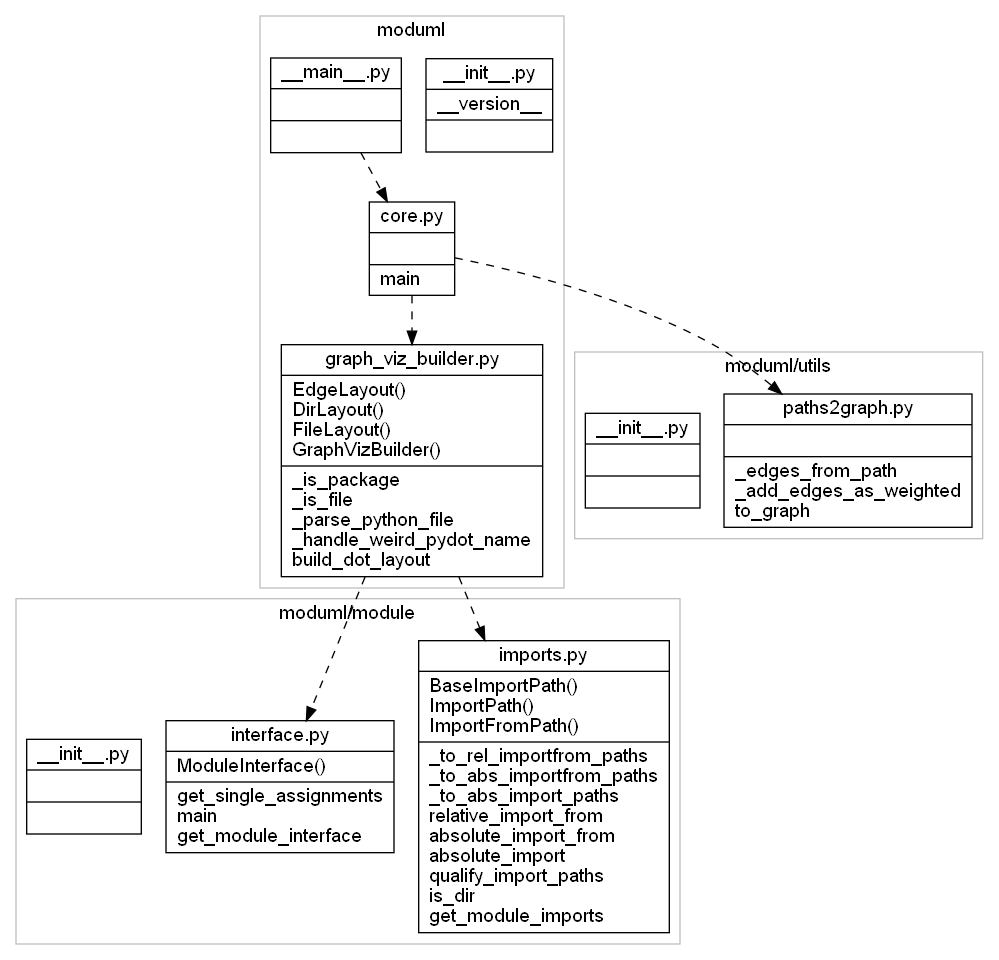
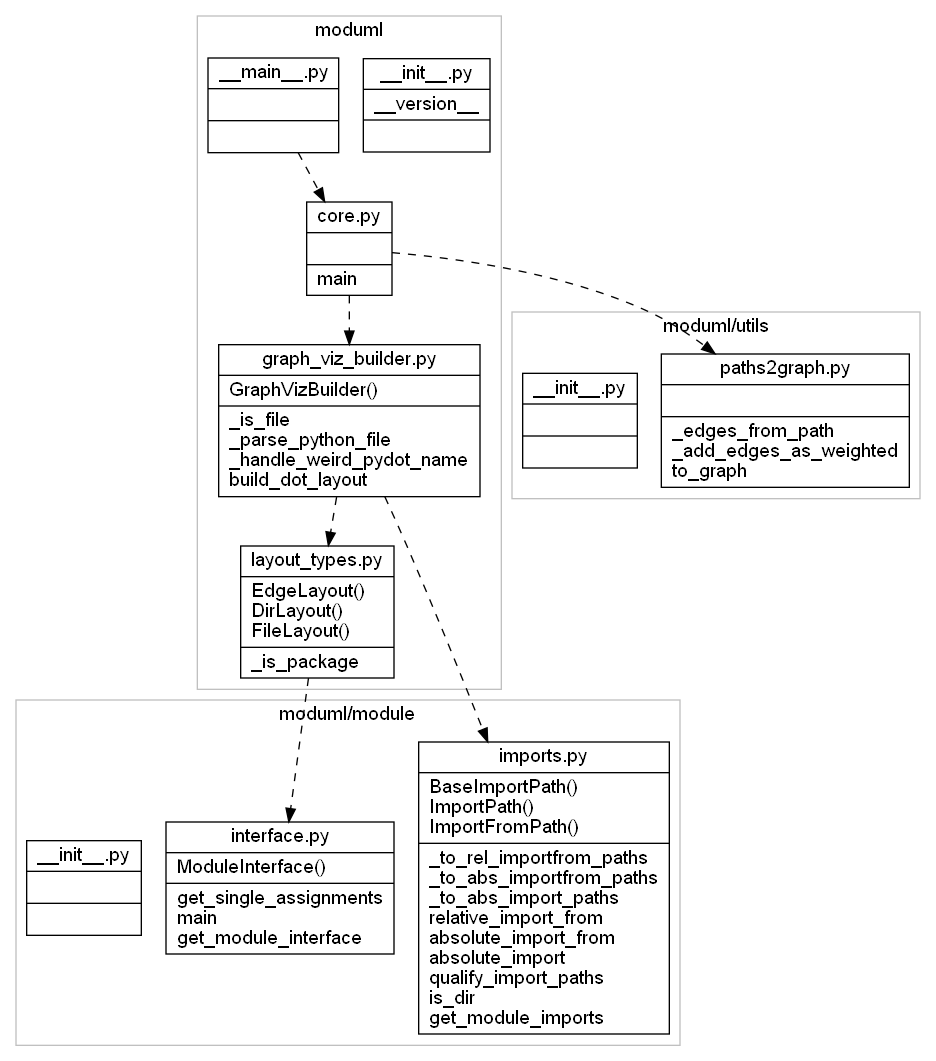
add dir-as empty + full-filepath options (#5)

Changed region(s): [[0.0, 0.0, 0.9915, 1.0]]

diff --git a/moduml/core.py b/moduml/core.py
@@ -14,10 +14,11 @@ def main():
     parser = argparse.ArgumentParser()
     parser.add_argument("path", type=str, help="Path to directory containing python project.")
     #
-    parser.add_argument("--dir-as", type=str, default="node", help="Draw a directory as 'node' (default) or 'cluster'.")
+    parser.add_argument("--dir-as", type=str, default="node", help="Draw a directory as 'node' (default), 'cluster' or 'empty' (not drawn).")
     parser.add_argument("--output-file", type=str, help="Replace dot string output with name of image file incl. extension (e.g. img.png). Supports file formats from GraphViz (e.g. png, svg).")
-    parser.add_argument("--ignore-files", type=str, help="Glob pattern for ignoring files.")
+    parser.add_argument("--exclude-files", type=str, help="Glob pattern for excluding files.")
     # layout components
+    parser.add_argument("--full-filepath", action="store_true", help="Show filenames with their full path. Default is to only show filename.")
     parser.add_argument("--show-interface", action="store_true", help="Show interface (var + function names) on file nodes.")
     parser.add_argument("--show-imports", action="store_true", help="Show import links between files.")
     parser.add_argument("--ignore-imports", action="store_true", help="Import links won't affect graph layout.")
@@ -42,10 +43,10 @@ def main():
     filepaths: List[Path] = list(path.rglob("*.py"))
 
     # optional: ignore files pattern
-    ignore_filepaths = []
-    if args.ignore_files:
-        ignore_filepaths: List[Path] = list(path.rglob(args.ignore_files))
-    filepaths = [p for p in filepaths if p not in ignore_filepaths]
+    exclude_filepaths = []
+    if args.exclude_files:
+        exclude_filepaths: List[Path] = list(path.rglob(args.exclude_files))
+    filepaths = [p for p in filepaths if p not in exclude_filepaths]
 
     # convert filepaths to graph
     graph: nx.DiGraph = paths2graph.to_graph(paths=filepaths)

diff --git a/moduml/graph_viz_builder.py b/moduml/graph_viz_builder.py
@@ -7,8 +7,6 @@ import networkx as nx
 import pydot
 import astroid
 
-from .module.interface import ModuleInterface
-from .module import interface
 from .module.imports import get_module_imports
 from .layout_types import DirLayout, FileLayout, EdgeLayout
 
@@ -74,6 +72,7 @@ class GraphVizBuilder:
         for n in self.file_nodes:
             node = FileLayout(node=n, 
                               with_interface=with_interface,
+                              full_filepath=ARGS.full_filepath,
                               show_class_bases=ARGS.show_class_bases,
                               show_func_decorators=ARGS.show_func_decorators,
                               show_func_return_type=ARGS.show_func_return_type
@@ -144,6 +143,8 @@ def build_dot_layout(g: nx.DiGraph,
         builder.add_hierarchy_links()
     elif dir_as == "cluster":
         builder.add_dir_clusters()
+    elif dir_as == "empty":
+        pass
     else:
         raise ValueError(f"dir_as cannot take value: {dir_as}")
     

diff --git a/moduml/layout_types.py b/moduml/layout_types.py
@@ -51,13 +51,15 @@ class FileLayout(pydot.Node):
     def __init__(self, 
                  node: Path, 
                  with_interface: bool,
+                 full_filepath: bool,
                  show_class_bases: bool = False,
                  show_func_decorators: bool = False,
                  show_func_return_type: bool = False
                  ) -> None:
         super().__init__(name=node.as_posix())
         self.set("shape", "record")
-        filename = node.relative_to(node.parent).as_posix()
+        filename = node.as_posix() if full_filepath else node.relative_to(node.parent).as_posix()
+        
         if with_interface:
             mod_int: ModuleInterface = interface.get_module_interface(module_path=node)
             cs: List[str] = self._class_definition_style(class_defs=mod_int.class_defs, 

diff --git a/README.md b/README.md
@@ -7,7 +7,7 @@ Similarly to the intended role of UML diagrams in static languages, moduml is in
 
 
 ## Quick example
-moduml applied to itself:
+moduml applied to itself:  
 ``moduml moduml --output-file moduml_example.png --show-interface --show-imports --dir-as cluster``
 ![moduml example](moduml_example.png)
 
@@ -32,9 +32,11 @@ moduml applied to itself:
 - ~~use "concentrate" to merge multiple edges together. Maybe as option, maybe as permanent setting.~~
 - ~~option for changing between the two possible 'rankdir' settings: 'TB' (top-bottom), 'LR' (left-right). OBS! explain that it screws with the interface layout.~~
 - ~~add (maybe as option) 'constraint' to import links in 'dir-as node' view, causing the tree hiearchy between folders and files to be preserved.~~
-- 'no directories'-view ('dir-as removed'), only files (with imports as only links) and fully qualified file names.
+- ~~'no directories'-view ('dir-as empty'), only files (with imports as only links) and fully qualified file names.~~
 - add a couple of sensible default views, that ignores other specific args (or just overwrites the ones it uses), e.g. interface-view (dir-as node, only hiearchy imports, show-interface)
+- option to remove/not-draw nodes with no edges/links.
+- consider coloring schemes for showing dir hierarchies and import links, e.g. top-level files have different kinds of red and their import links share the source node color.
 - streamlit app for exploring moduml's own source code (hosted as a streamlit share service).
 - config file for style definitions, e.g. color schemes, node shapes, etc.
 - replace paths2graph with network_creator script.
-- ignore-files only works for files that are not imported themselves, i.e. test files (which was the intended use case).
+- exclude-files only works for files that are not imported themselves, i.e. test files (which was the intended use case).
